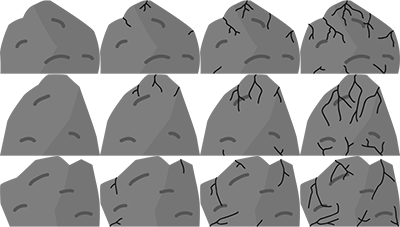
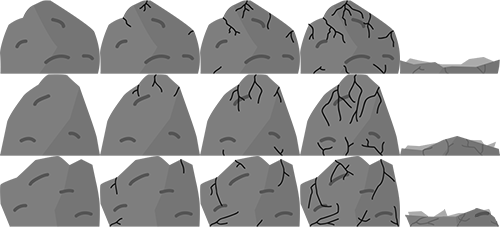
Fra nå av prøver jeg å jukse på min egen kode

diff --git a/Spillet/Vikingvalg/Vikingvalg/Stone.cs b/Spillet/Vikingvalg/Vikingvalg/Stone.cs
@@ -14,7 +14,7 @@ namespace Vikingvalg
 {
     class Stone : StaticSprite, ICanCollide
     {
-        private MiningLevel _miningLevel;
+        public AnimatedStaticSprite stoneHitArt { get; set; }
 
         private Rectangle _footBox;
         public Rectangle FootBox
@@ -29,30 +29,32 @@ namespace Vikingvalg
         public bool BlockedTop { get; set; }
         public bool BlockedBottom { get; set; }
 
-        private int _endurance;
+        public int endurance;
 
         public Stone(String artName, Rectangle destinationRectangle, Rectangle sourceRectangle, Color color, float rotation,
-            Vector2 origin, SpriteEffects effects, float layerDepth, MiningLevel miningLevel)
+            Vector2 origin, SpriteEffects effects, float layerDepth)
             : base(artName, destinationRectangle, sourceRectangle, color, rotation, origin, effects, layerDepth)
         {
-            _miningLevel = miningLevel;
-            _endurance = 8;
+            stoneHitArt = new AnimatedStaticSprite("stoneHit", new Rectangle(_destinationRectangle.X, _destinationRectangle.Y, 180, 99), Vector2.Zero, 4, 1000);
+            stoneHitArt.IsPlaying = false;
+            endurance = 8;
             _footBox = new Rectangle(destinationRectangle.X, destinationRectangle.Bottom - 20, destinationRectangle.Width, 20);
             setLayerDepth((float)(_footBox.Bottom / 70f));
         }
-        public Stone(Rectangle destinationRectangle, int sourceYPos, int color, MiningLevel miningLevel)
+        public Stone(Rectangle destinationRectangle, int sourceYPos, int color)
             : this("stone", destinationRectangle, new Rectangle(0, sourceYPos, destinationRectangle.Width, destinationRectangle.Height),
-                new Color(200, color + 30, color, 255), 0, Vector2.Zero, SpriteEffects.None, 0.5f, miningLevel)
+                new Color(200, color + 30, color, 255), 0, Vector2.Zero, SpriteEffects.None, 0.5f)
         { }
 
         public void IsHit()
         {
-            _endurance--;
-            if (_endurance <= 0)
+            stoneHitArt.IsPlaying = true;
+            endurance--;
+            if (endurance <= 0)
             {
-                _miningLevel.RemoveInGameLevelDrawable(this);
+                _sourceRectangle.X = 400;
             }
-            else if (_endurance % 2 == 0)
+            else if (endurance % 2 == 0)
             {
                 _sourceRectangle.X += _sourceRectangle.Width;
             }

diff --git a/Spillet/Vikingvalg/Vikingvalg/AnimatedStaticSprite.cs b/Spillet/Vikingvalg/Vikingvalg/AnimatedStaticSprite.cs
@@ -1,0 +1,52 @@
+using System;
+using System.Collections.Generic;
+using System.Linq;
+using System.Text;
+using Microsoft.Xna.Framework;
+using Microsoft.Xna.Framework.Audio;
+using Microsoft.Xna.Framework.Content;
+using Microsoft.Xna.Framework.GamerServices;
+using Microsoft.Xna.Framework.Graphics;
+using Microsoft.Xna.Framework.Input;
+using Microsoft.Xna.Framework.Media;
+
+namespace Vikingvalg
+{
+    class AnimatedStaticSprite : StaticSprite
+    {
+        protected int _currentFrame = 0;
+        protected int _numberOfFrames;
+        protected float _animationStepTime;
+        protected float _timer;
+
+        public bool IsPlaying { get; set; }
+
+        public AnimatedStaticSprite(String artName, Rectangle destinationRectangle, Rectangle sourceRectangle, Color color, float rotation,
+            Vector2 origin, SpriteEffects effects, float layerDepth, int numberOfFrames, float animationStepTime)
+            : base(artName, destinationRectangle, sourceRectangle, color, rotation, origin, effects, layerDepth)
+        {
+            _numberOfFrames = numberOfFrames;
+            _animationStepTime = animationStepTime;
+            IsPlaying = true;
+        }
+        public AnimatedStaticSprite(String artName, Rectangle destinationRectangle, Vector2 sourcePos, int numberOfFrames, float animationStepTime)
+            : this(artName, destinationRectangle, new Rectangle((int)sourcePos.X, (int)sourcePos.Y, destinationRectangle.Width, destinationRectangle.Height),
+                new Color(255, 255, 255, 255), 0, Vector2.Zero, SpriteEffects.None, 0.3f, numberOfFrames, animationStepTime)
+        { }
+
+        public void Update(GameTime gameTime)
+        {
+            if (_currentFrame >= _numberOfFrames)
+            {
+                _currentFrame++;
+            }
+            _timer += (float)gameTime.ElapsedGameTime.TotalMilliseconds;
+            if (_timer >= _animationStepTime)
+            {
+                _timer -= _animationStepTime;
+                _currentFrame++;
+                _sourceRectangle.X = _destinationRectangle.Width*_currentFrame;
+            }
+        }
+    }
+}

diff --git a/Spillet/Vikingvalg/Vikingvalg/MiningLevel.cs b/Spillet/Vikingvalg/Vikingvalg/MiningLevel.cs
@@ -17,7 +17,10 @@ namespace Vikingvalg
 
         public MiningLevel(Player player1, IManageSprites spriteService, IManageCollision collisionService, InGameManager inGameService)
             : base(player1, spriteService, collisionService, inGameService)
-        { }
+        {
+            //Laster inn "stoneHit" som Texture2d
+            spriteService.LoadDrawable(new AnimatedStaticSprite("stoneHit", new Rectangle(0, 0, 180, 99), Vector2.Zero, 4, 1000));
+        }
 
         public override void InitializeLevel()
         {
@@ -49,7 +52,7 @@ namespace Vikingvalg
                         sourceYPos = 74 + 82;
                     }
 
-                    Stone toAdd = new Stone(stoneDestination, sourceYPos, stoneColor, this);
+                    Stone toAdd = new Stone(stoneDestination, sourceYPos, stoneColor);
 
                     _stones.Add(toAdd);
                     AddInGameLevelDrawable(toAdd);

diff --git a/Spillet/Vikingvalg/Vikingvalg/InGameLevel.cs b/Spillet/Vikingvalg/Vikingvalg/InGameLevel.cs
@@ -67,6 +67,12 @@ namespace Vikingvalg
                     IUseInput needsInput = (IUseInput)toUpdate;
                     needsInput.Update(inputService);
                 }
+                else if (toUpdate is AnimatedStaticSprite)
+                {
+                    AnimatedStaticSprite needsGameTime = (AnimatedStaticSprite)toUpdate;
+                    if(needsGameTime.IsPlaying)
+                        needsGameTime.Update(gameTime);
+                }
                 else
                 {
                     toUpdate.Update();

diff --git a/Spillet/Vikingvalg/Vikingvalg/Player.cs b/Spillet/Vikingvalg/Vikingvalg/Player.cs
@@ -121,7 +121,7 @@ namespace Vikingvalg
                 {
                     foreach (Stone stone in StonesToMine)
                     {
-                        if (targetBox.Intersects(stone.FootBox) &&
+                        if (targetBox.Intersects(stone.FootBox) && stone.endurance > 0 &&
                             ((stone.FootBox.Center.X < this.FootBox.Center.X && this.Flipped) || (stone.FootBox.Center.X > this.FootBox.Center.X && !this.Flipped)))
                         {
                             stone.IsHit();

diff --git a/Spillet/Vikingvalg/Vikingvalg/SpriteManager.cs b/Spillet/Vikingvalg/Vikingvalg/SpriteManager.cs
@@ -99,7 +99,6 @@ namespace Vikingvalg
                     if (drawable is StaticSprite && drawable.LayerDepth <= playerDepth)
                     {
                         drawStaticSprite(drawable);
-
                     }
                 }
                 _spriteBatch.End();
